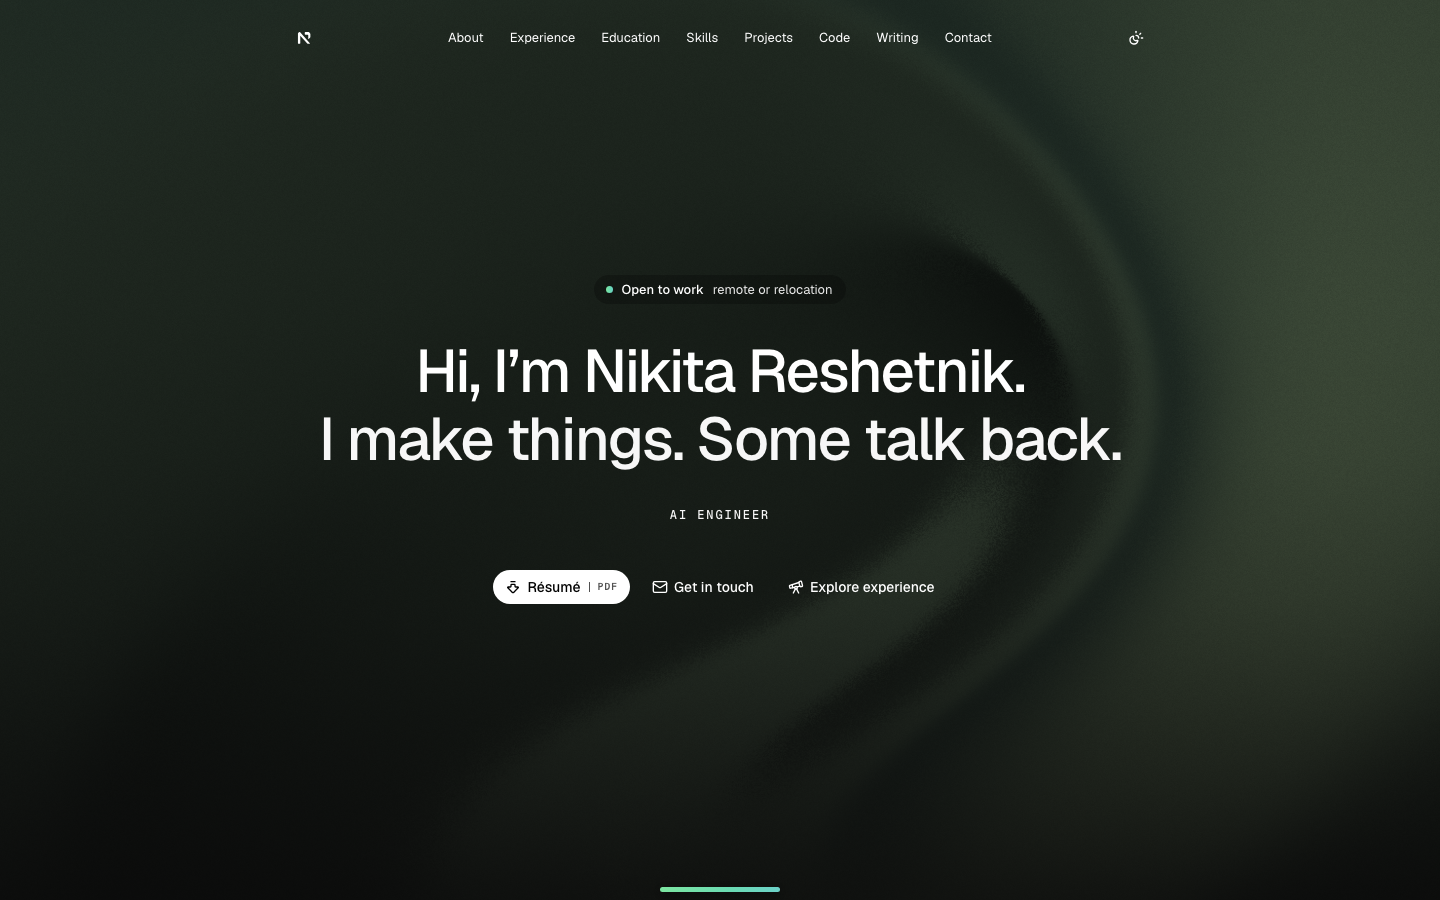
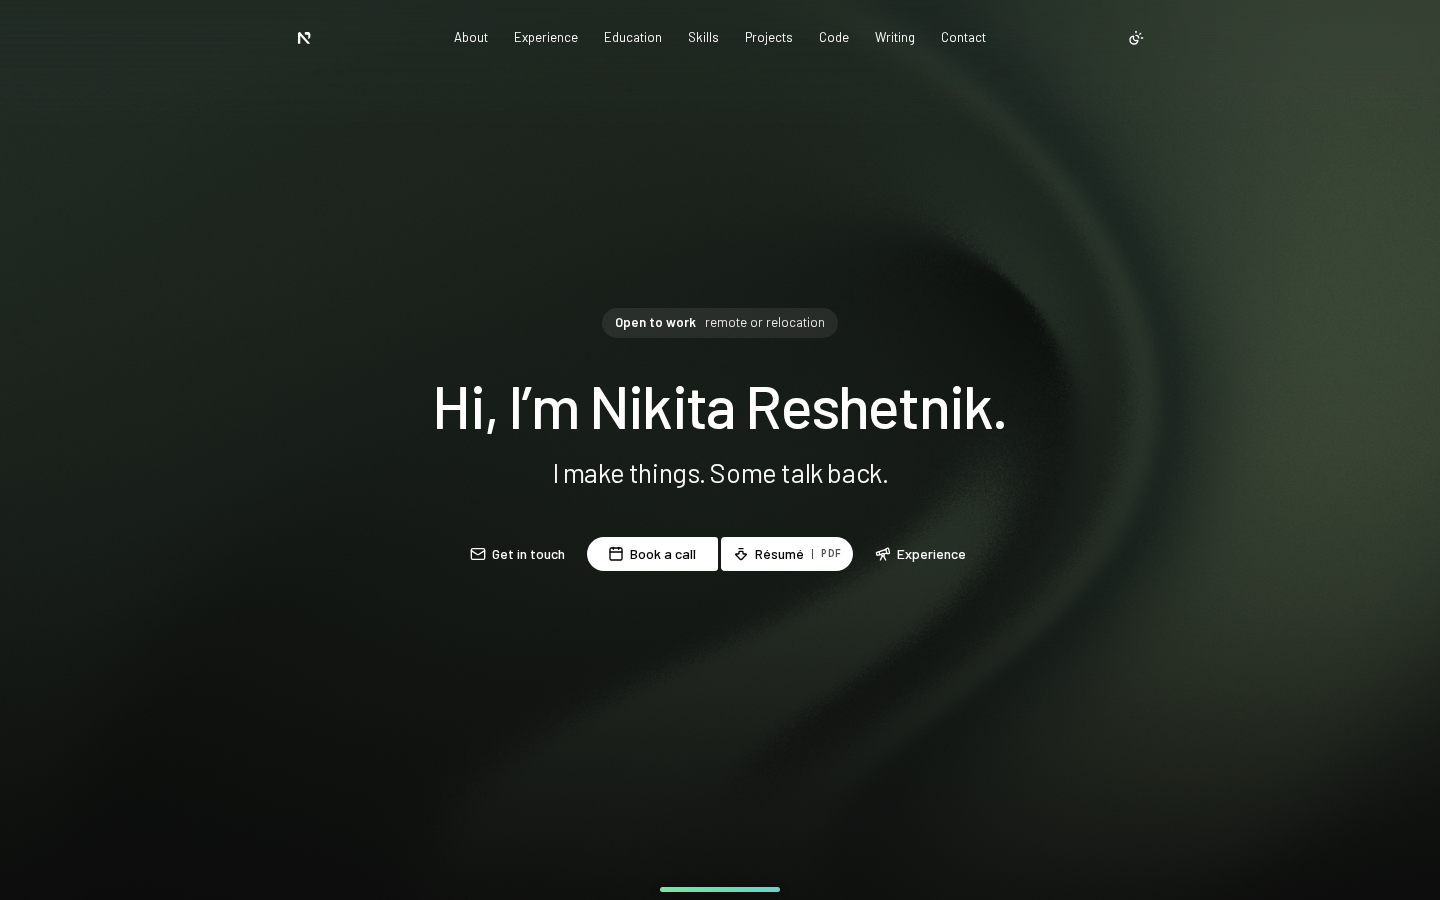
Refresh product captures and fix portfolio browser checks (#12)
* Refresh portfolio and DevBook product captures

* test: align browser checks with current portfolio behavior

* test: document the entrance animation event

* test: measure responsive spacing on the server-rendered page

* test: use a statement for the spacing fixture theme

* test: wait for mobile chat hydration during browser setup

* test: keep the cursor clear of the idle chat launcher

diff --git a/tests/e2e/interactions.spec.ts b/tests/e2e/interactions.spec.ts
@@ -292,24 +292,23 @@ for (const theme of ["light", "dark"] as const) {
     await page.addInitScript((theme) => {
       localStorage.setItem("theme", theme);
       sessionStorage.setItem("portfolio-opening-splash-seen", "true");
-      document.addEventListener("animationstart", (event) => {
+      /** Tracks the entrance animation separately from the scroll-driven hero exit.
+       * @param event - CSS animation start or end observed before hydration.
+       */
+      function recordReveal(event: AnimationEvent) {
         const target = event.target;
         if (!(target instanceof HTMLElement) || !target.matches('[data-slot="hero"] > [data-page-motion-intro], [data-slot="site-header"] > nav, [data-entry-stroke]')) return;
+        if (event.animationName !== getComputedStyle(target).animationName.split(",")[0]) return;
+        if (event.type === "animationend") {
+          target.dataset.revealFinished = String(event.elapsedTime > 0);
+          return;
+        }
         target.dataset.revealForeground = getComputedStyle(target).color;
         target.dataset.revealStarts = String(Number(target.dataset.revealStarts ?? 0) + 1);
         target.dataset.revealBeforeHydration = String(!document.querySelector("[data-theme-root]"));
-        /** Records a real intermediate reveal frame before the animation finishes. */
-        const sample = () => {
-          const css = getComputedStyle(target);
-          if (Number(css.opacity) > 0 && Number(css.opacity) < 1 && css.visibility === "visible"
-            && (target.matches('[data-slot="site-header"] > nav') || css.transform !== "none")) {
-            target.dataset.revealProgressed = "true";
-          } else if (css.opacity !== "1") {
-            requestAnimationFrame(sample);
-          }
-        };
-        requestAnimationFrame(sample);
-      });
+      }
+      document.addEventListener("animationstart", recordReveal);
+      document.addEventListener("animationend", recordReveal);
     }, theme);
     let releaseAssets = false;
     const pending: VoidFunction[] = [];
@@ -324,7 +323,7 @@ for (const theme of ["light", "dark"] as const) {
       await expect(content).toHaveCount(6);
       for (const target of await content.all()) {
         await expect(target).toHaveAttribute("data-reveal-before-hydration", "true");
-        await expect(target).toHaveAttribute("data-reveal-progressed", "true");
+        await expect(target).toHaveAttribute("data-reveal-finished", "true");
         await expect(target).toHaveCSS("opacity", "1");
         await expect(target).toBeVisible();
         if (await target.getAttribute("data-entry-stroke") === null) await expect(target).toHaveCSS("transform", "none");
@@ -355,12 +354,29 @@ test("first-visit hero reveal waits for the splash handoff", { tag: "@webkit" },
   const content = page.locator('[data-slot="hero"] > [data-page-motion-intro], [data-slot="site-header"] > nav, [data-entry-stroke]');
   await expect(content).toHaveCount(6);
   for (const target of await content.all()) {
-    await expect(target).toHaveCSS("animation-play-state", "paused");
+    await expect(target).toHaveCSS("animation-play-state", /^paused(?:,\s*paused)*$/);
     await expect(target).toHaveCSS("opacity", "0");
+  }
+  // Sample each paused entrance at its midpoint without depending on frame delivery in CI.
+  const midpoints = await content.evaluateAll((elements) => elements.map((element) => {
+    const entryName = getComputedStyle(element).animationName.split(",")[0];
+    const entry = element.getAnimations().find((animation) => animation instanceof CSSAnimation && animation.animationName === entryName);
+    if (!entry?.effect) throw new Error("Missing entrance animation");
+    const originalTime = entry.currentTime;
+    const { delay, duration } = entry.effect.getTiming();
+    entry.currentTime = Number(delay) + Number(duration) / 2;
+    const { opacity, transform } = getComputedStyle(element);
+    entry.currentTime = originalTime;
+    return { opacity: Number(opacity), transform, moves: !element.matches("nav") };
+  }));
+  for (const midpoint of midpoints) {
+    expect(midpoint.opacity).toBeGreaterThan(0);
+    expect(midpoint.opacity).toBeLessThan(1);
+    if (midpoint.moves) expect(midpoint.transform).not.toBe("none");
   }
   await expect(page.locator("html")).toHaveAttribute("data-splash-complete", "true");
   for (const target of await content.all()) {
-    await expect(target).toHaveCSS("animation-play-state", "running");
+    await expect(target).toHaveCSS("animation-play-state", /^running(?:,\s*running)*$/);
     await expect(target).toHaveCSS("opacity", "1");
     if (await target.getAttribute("data-entry-stroke") === null) await expect(target).toHaveCSS("transform", "none");
   }

diff --git a/tests/e2e/home-spacing.spec.ts b/tests/e2e/home-spacing.spec.ts
@@ -1,30 +1,15 @@
 import { expect, test } from "@playwright/test";
 
+// Keep the server-rendered layout responsive while measuring synthetic entries without hydration.
+test.use({ javaScriptEnabled: false });
+
 for (const theme of ["light", "dark"] as const) {
   test(`Home keeps a shared responsive rhythm in ${theme}`, { tag: "@webkit" }, async ({ page }) => {
     await page.emulateMedia({ colorScheme: theme, reducedMotion: "reduce" });
-    await page.addInitScript((theme) => {
-      localStorage.setItem("theme", theme);
-      sessionStorage.setItem("portfolio-opening-splash-seen", "true");
-    }, theme);
     await page.goto("/");
-    const fixture = await page.evaluate(() => ({
-      origin: location.origin,
-      styles: [...document.querySelectorAll<HTMLLinkElement>('link[rel="stylesheet"]')].map((link) => link.href),
-      htmlClass: document.documentElement.className,
-      bodyClass: document.body.className,
-      main: document.querySelector("main")?.outerHTML,
-    }));
-    const main = fixture.main;
-    if (!main) throw new Error("Missing Home fixture");
-    // Isolate the production markup/CSS so hydration cannot replace synthetic entries mid-measurement.
-    await page.route("**/__home-spacing-fixture", (route) => route.fulfill({
-      contentType: "text/html",
-      body: `<html class="${fixture.htmlClass}"><head><base href="${fixture.origin}/">
-        ${fixture.styles.map((href) => `<link rel="stylesheet" href="${href}">`).join("")}
-        </head><body class="${fixture.bodyClass}">${main}</body></html>`,
-    }));
-    await page.goto("/__home-spacing-fixture");
+    await page.evaluate((theme) => {
+      document.documentElement.classList.add(theme);
+    }, theme);
     await page.evaluate(() => document.fonts.ready);
 
     // Content is deliberately replaced: spacing must not depend on portfolio copy or record counts.

diff --git a/tests/e2e/home-polish.spec.ts b/tests/e2e/home-polish.spec.ts
@@ -250,9 +250,8 @@ test("no-JavaScript compact navigation scrolls locally on short screens", { tag:
   const page = await context.newPage();
   try {
     await page.goto("/");
-    const details = page.locator("noscript details");
-    await details.locator("summary").click();
-    const menu = details.getByRole("navigation", { name: "Compact navigation" });
+    await page.getByRole("button", { name: "Jump to section", exact: true }).click();
+    const menu = page.getByRole("navigation", { name: "Compact navigation" });
     await expect(menu).toBeVisible();
     const geometry = await menu.evaluate((element) => {
       const box = element.getBoundingClientRect();
@@ -268,8 +267,10 @@ test("no-JavaScript compact navigation scrolls locally on short screens", { tag:
     expect(geometry.bottom).toBeLessThanOrEqual(geometry.viewportHeight + 1);
     expect(geometry.overflowY).toBe("auto");
     expect(geometry.scrollHeight).toBeGreaterThan(geometry.clientHeight);
-    await menu.getByRole("link").last().scrollIntoViewIfNeeded();
-    await expect(menu.getByRole("link").last()).toBeVisible();
+    const lastLink = menu.getByRole("link").last();
+    await lastLink.scrollIntoViewIfNeeded();
+    await expect(lastLink).toBeInViewport({ ratio: 1 });
+    expect(await menu.evaluate((element) => element.scrollTop)).toBeGreaterThan(0);
     expect(await page.evaluate(() => document.documentElement.scrollWidth <= document.documentElement.clientWidth)).toBe(true);
   } finally {
     await context.close();

diff --git a/tests/e2e/conversation.spec.ts b/tests/e2e/conversation.spec.ts
@@ -363,7 +363,7 @@ test.describe("conversation smoke", () => {
     const field = entry.locator('[data-slot="input-group"]');
     await expect(entry.getByRole("textbox")).toHaveCount(0);
     const fullWidth = await field.evaluate((element) => element.getBoundingClientRect().width);
-    const lineWidth = (await box(entry.locator("[data-entry-stroke]"))).width;
+    const lineWidth = (await box(paint)).width;
 
     /** Places the viewport a given distance from its final scroll position.
      * @param remaining - Distance in CSS pixels above the document edge.
@@ -375,6 +375,7 @@ test.describe("conversation smoke", () => {
     }
 
     await scrollFromEnd(40);
+    await expect(entry).toHaveAttribute("data-footer-reveal", "true");
     await expect.poll(async () => (await box(paint)).width).toBeGreaterThan(lineWidth + 1);
     const midway = (await box(paint)).width;
     expect(midway).toBeLessThan(fullWidth - 1);
@@ -779,6 +780,8 @@ test.describe("conversation smoke", () => {
     const surface = page.locator('[data-chat-surface][data-mobile="false"]');
     await expect(surface).toHaveAttribute("data-morph", "opening");
 
+    // Leave the launcher's hover area before checking its resting state after close.
+    await page.mouse.move(8, 8);
     const closing = await triggerAndSampleClosingStart(page.getByRole("button", { name: "Close conversation" }));
     await expect(surface).toHaveAttribute("data-closing", "true");
     expectClipPathClose(closing.clipPath, opening.clipPath);

diff --git a/tests/e2e/conversation-mobile.spec.ts b/tests/e2e/conversation-mobile.spec.ts
@@ -127,7 +127,8 @@ async function transport(page: Page): Promise<AskFixtureWindow["askFixture"]> {
  * @returns Stable launcher used for focus restoration checks.
  */
 async function readyEntry(page: Page): Promise<Locator> {
-  await expect(page.locator('[data-conversation-shell][data-capability="supported"]')).toBeAttached();
+  // The server renders "unknown" until hydration and the first capability-detection frame.
+  await expect(page.locator("[data-conversation-shell]")).toHaveAttribute("data-capability", "supported", { timeout: 15_000 });
   await expect(page.locator('[data-slot="opening-splash"]')).toHaveCount(0);
   await expect.poll(async () => page.locator("[data-entry-stroke]").evaluate((element) => element.getAnimations().length)).toBe(0);
   const launcher = page.locator("button[data-launcher]");

diff --git a/tests/e2e/touch-surfaces.spec.ts b/tests/e2e/touch-surfaces.spec.ts
@@ -129,7 +129,7 @@ for (const viewport of touchViewports) {
 
         const heroSurface = await readHeaderSurface(page);
         expect(heroSurface.opacity).toBe("1");
-        expect(heroSurface.backgroundImage).toMatch(/^radial-gradient/);
+        expect(heroSurface.backgroundImage).toMatch(/^linear-gradient\(/);
         expect(heroSurface.paintedTop).toBeLessThanOrEqual(0.5);
         expect(heroSurface.paintedBottom).toBeCloseTo(heroSurface.paintedHeight, 0);
         expect(heroSurface.paintedHeight).toBeCloseTo(heroSurface.headerHeight, 0);

diff --git a/README.md b/README.md
@@ -5,10 +5,6 @@
 </picture>
 
 <p align="center">
-Next.js portfolio with validated structured content and repository-authored MDX.
-</p>
-
-<p align="center">
 <a href="https://reshetnik.dev"><picture><source media="(prefers-color-scheme: dark)" srcset="https://shieldcn.dev/badge/View_portfolio.svg?variant=default&amp;size=sm&amp;font=geist&amp;mode=dark&amp;logo=ri%3ALuArrowUpRight&amp;color=84cc16&amp;logoColor=0e100f&amp;valueColor=0e100f&amp;labelTextColor=0e100f&amp;gradient=84cc16%2C95d133%2C110"><img alt="View portfolio" src="https://shieldcn.dev/badge/View_portfolio.svg?variant=default&amp;size=sm&amp;font=geist&amp;mode=light&amp;logo=ri%3ALuArrowUpRight&amp;color=437100&amp;logoColor=ffffff&amp;valueColor=ffffff&amp;labelTextColor=ffffff&amp;gradient=437100%2C4c7a10%2C110" style="display:inline-block;margin:0;vertical-align:middle"></picture></a>
 <a href="https://github.com/grafanaKibana/web-portfolio-v2/actions/workflows/verify.yml"><picture><source media="(prefers-color-scheme: dark)" srcset="https://shieldcn.dev/github/ci/grafanaKibana/web-portfolio-v2.svg?variant=outline&amp;size=sm&amp;font=geist&amp;mode=dark&amp;label=CI&amp;workflow=verify.yml&amp;branch=main&amp;statusDot=true&amp;gradient=18181b%2C18181b%2C90&amp;labelTextColor=fafafa"><img alt="CI status" src="https://shieldcn.dev/github/ci/grafanaKibana/web-portfolio-v2.svg?variant=outline&amp;size=sm&amp;font=geist&amp;mode=light&amp;label=CI&amp;workflow=verify.yml&amp;branch=main&amp;statusDot=true&amp;gradient=fafafa%2Cfafafa%2C90&amp;labelTextColor=18181b" style="display:inline-block;margin:0;vertical-align:middle"></picture></a>
 <a href="https://github.com/grafanaKibana/web-portfolio-v2/issues"><picture><source media="(prefers-color-scheme: dark)" srcset="https://shieldcn.dev/badge/Report_an_issue.svg?variant=outline&amp;size=sm&amp;font=geist&amp;mode=dark&amp;logo=ri%3ALuBug&amp;gradient=18181b%2C18181b%2C90&amp;logoColor=fafafa&amp;labelTextColor=fafafa"><img alt="Report an issue" src="https://shieldcn.dev/badge/Report_an_issue.svg?variant=outline&amp;size=sm&amp;font=geist&amp;mode=light&amp;logo=ri%3ALuBug&amp;gradient=fafafa%2Cfafafa%2C90&amp;logoColor=18181b&amp;labelTextColor=18181b" style="display:inline-block;margin:0;vertical-align:middle"></picture></a>
